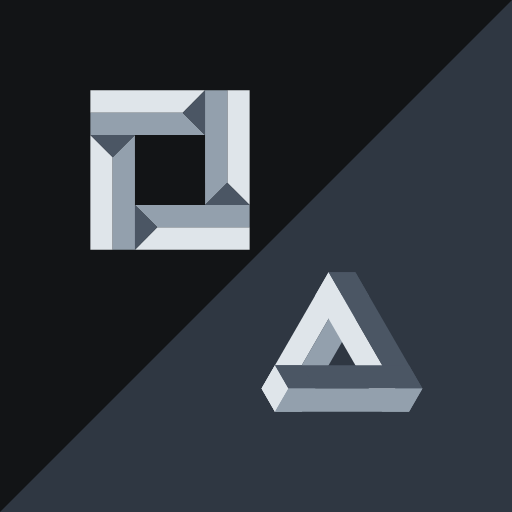
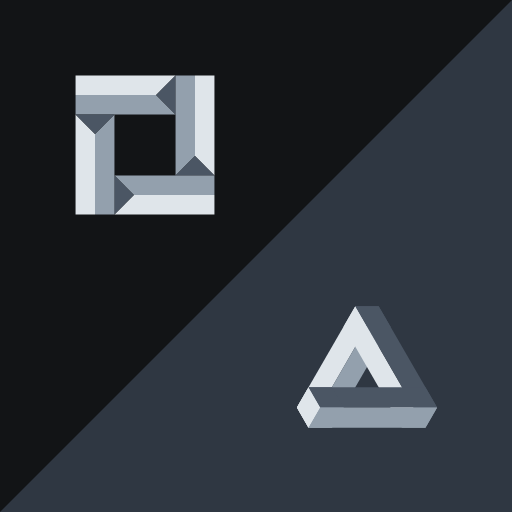
2.10.3: app-tákn – merkin færð út í hornin svo bil sé á milli (allar uppsetningar)
Claude-Session: https://claude.ai/code/session_01NhUccGStRqMU7uEcn4Gtag

Changed region(s): [[0.125, 0.125, 0.5, 0.5], [0.5, 0.5312, 0.875, 0.8438]]

diff --git a/sw.js b/sw.js
@@ -1,6 +1,6 @@
 // Þjónustuskrifta (service worker): geymir appið á tækinu svo það opnist hratt og virki án nets.
 // Hækkaðu VERSION þegar eitthvað breytist, þá sækja tækin nýju útgáfuna.
-const VERSION = "atrium-2.10.2"; // sama og APP_VERSION í app.html
+const VERSION = "atrium-2.10.3"; // sama og APP_VERSION í app.html
 const SHELL = ["./", "index.html", "app.css", "app-grunnur.js", "app-listar.js", "app-skyrslur.js", "app-sidur.js", "app-stillingar.js", "app-form.js", "app-breyta.js", "firebase.js", "firebase-config.js", "xlsx.js", "skjalagerd.js", "icons/doc-logo.png", "ms.js", "ms-app.js", "verdskra.js", "reikn.js", "sala.js", "prufugogn.js", "deildir.js", "skjol.js", "postur.js", "spjall.js", "heim.js", "skjalasafn.js", "adgangur.js", "notendur.js", "gogn.js", "kjarni.js", "demo.js",
   "aera/index.html", "aera/fyrirtaeki.js", "aera/manifest.webmanifest", "sonik/index.html", "sonik/fyrirtaeki.js", "sonik/manifest.webmanifest", "sonik/utlit.css", "sonik/merki-ljos.svg", "sonik/merki-dokk.svg", "aera/icon-192.png", "aera/apple-touch-icon.png", "sonik/icon-192.png", "sonik/apple-touch-icon.png", "party/index.html", "party/fyrirtaeki.js", "party/manifest.webmanifest", "party/utlit.css", "party/merki.png", "party/icon-192.png", "party/apple-touch-icon.png",
   "icons/atrium-icon-192.png", "icons/atrium-icon-512.png", "icons/atrium-icon-maskable-512.png", "icons/atrium-apple-touch-icon.png", "icons/atrium-favicon.svg", "icons/atrium-haus-ljos.svg", "icons/atrium-haus-dokk.svg", "icons/atrium-ordmerki-dokk.svg", "icons/sig-logo.png", "icons/atrium-merki-ljos.svg", "icons/atrium-merki-dokk.svg",

diff --git a/aera/index.html b/aera/index.html
@@ -42,7 +42,7 @@ if(window.ORG&&ORG.lsForskeyti){try{const L=window.localStorage,p=ORG.lsForskeyt
 <script src="xlsx.js"></script>
 <script src="skjalagerd.js"></script>
 <script type="module">const ROT=f=>new URL(f,document.baseURI).href; /* full slóð: Safari tekur ekki mið af <base> í import() (2.8.2) */ if(window.AERA_DEMO) import(ROT("demo.js")); else if(window.ORG.firebase) import(ROT("firebase.js")); else { /* uppsetning án gagnagrunns (enn sem komið er) */ document.getElementById("login").hidden=false; document.getElementById("login-msg").textContent="Þessi uppsetning er ekki enn tengd gagnagrunni. Sýniútgáfan virkar: bættu ?demo aftan við slóðina."; document.getElementById("login-ms").disabled=true; }</script>
-<script>const APP_VERSION="2.10.2"; // hækka hér og VERSION í sw.js (alltaf eins)</script>
+<script>const APP_VERSION="2.10.3"; // hækka hér og VERSION í sw.js (alltaf eins)</script>
 <script src="app-grunnur.js"></script>
 <script src="app-listar.js"></script>
 <script src="app-skyrslur.js"></script>

diff --git a/app.html b/app.html
@@ -42,7 +42,7 @@ if(window.ORG&&ORG.lsForskeyti){try{const L=window.localStorage,p=ORG.lsForskeyt
 <script src="xlsx.js"></script>
 <script src="skjalagerd.js"></script>
 <script type="module">const ROT=f=>new URL(f,document.baseURI).href; /* full slóð: Safari tekur ekki mið af <base> í import() (2.8.2) */ if(window.AERA_DEMO) import(ROT("demo.js")); else if(window.ORG.firebase) import(ROT("firebase.js")); else { /* uppsetning án gagnagrunns (enn sem komið er) */ document.getElementById("login").hidden=false; document.getElementById("login-msg").textContent="Þessi uppsetning er ekki enn tengd gagnagrunni. Sýniútgáfan virkar: bættu ?demo aftan við slóðina."; document.getElementById("login-ms").disabled=true; }</script>
-<script>const APP_VERSION="2.10.2"; // hækka hér og VERSION í sw.js (alltaf eins)</script>
+<script>const APP_VERSION="2.10.3"; // hækka hér og VERSION í sw.js (alltaf eins)</script>
 <script src="app-grunnur.js"></script>
 <script src="app-listar.js"></script>
 <script src="app-skyrslur.js"></script>

diff --git a/party/index.html b/party/index.html
@@ -43,7 +43,7 @@ if(window.ORG&&ORG.lsForskeyti){try{const L=window.localStorage,p=ORG.lsForskeyt
 <script src="xlsx.js"></script>
 <script src="skjalagerd.js"></script>
 <script type="module">const ROT=f=>new URL(f,document.baseURI).href; /* full slóð: Safari tekur ekki mið af <base> í import() (2.8.2) */ if(window.AERA_DEMO) import(ROT("demo.js")); else if(window.ORG.firebase) import(ROT("firebase.js")); else { /* uppsetning án gagnagrunns (enn sem komið er) */ document.getElementById("login").hidden=false; document.getElementById("login-msg").textContent="Þessi uppsetning er ekki enn tengd gagnagrunni. Sýniútgáfan virkar: bættu ?demo aftan við slóðina."; document.getElementById("login-ms").disabled=true; }</script>
-<script>const APP_VERSION="2.10.2"; // hækka hér og VERSION í sw.js (alltaf eins)</script>
+<script>const APP_VERSION="2.10.3"; // hækka hér og VERSION í sw.js (alltaf eins)</script>
 <script src="app-grunnur.js"></script>
 <script src="app-listar.js"></script>
 <script src="app-skyrslur.js"></script>

diff --git a/sonik/index.html b/sonik/index.html
@@ -43,7 +43,7 @@ if(window.ORG&&ORG.lsForskeyti){try{const L=window.localStorage,p=ORG.lsForskeyt
 <script src="xlsx.js"></script>
 <script src="skjalagerd.js"></script>
 <script type="module">const ROT=f=>new URL(f,document.baseURI).href; /* full slóð: Safari tekur ekki mið af <base> í import() (2.8.2) */ if(window.AERA_DEMO) import(ROT("demo.js")); else if(window.ORG.firebase) import(ROT("firebase.js")); else { /* uppsetning án gagnagrunns (enn sem komið er) */ document.getElementById("login").hidden=false; document.getElementById("login-msg").textContent="Þessi uppsetning er ekki enn tengd gagnagrunni. Sýniútgáfan virkar: bættu ?demo aftan við slóðina."; document.getElementById("login-ms").disabled=true; }</script>
-<script>const APP_VERSION="2.10.2"; // hækka hér og VERSION í sw.js (alltaf eins)</script>
+<script>const APP_VERSION="2.10.3"; // hækka hér og VERSION í sw.js (alltaf eins)</script>
 <script src="app-grunnur.js"></script>
 <script src="app-listar.js"></script>
 <script src="app-skyrslur.js"></script>

diff --git a/tools/takn.py b/tools/takn.py
@@ -24,7 +24,7 @@ def nest(p, x, y, w):
   vb, b = inner(p); return f'<svg x="{x}" y="{y}" width="{w}" height="{w}" viewBox="{vb}" preserveAspectRatio="xMidYMid meet">{b}</svg>'
 def svg(t, mask):
   # maskable: allt innan miðjuhrings (r = 40%) svo Android klippi ekki merkin
-  a, c, w = ((116, 116, 142), (254, 254, 142), None) if mask else ((84, 84, 172), (256, 256, 172), None)
+  a, c, w = ((122, 122, 124), (266, 266, 124), None) if mask else ((70, 70, 150), (292, 292, 150), None)
   return (f'<svg xmlns="http://www.w3.org/2000/svg" viewBox="0 0 512 512" width="512" height="512">'
           f'<rect width="512" height="512" fill="{t["bg"]}"/><polygon points="512,0 512,512 0,512" fill="{t["litur"]}"/>'
           f'{nest(ATR, a[0], a[1], a[2])}{nest(t["merki"], c[0], c[1], c[2])}</svg>')
